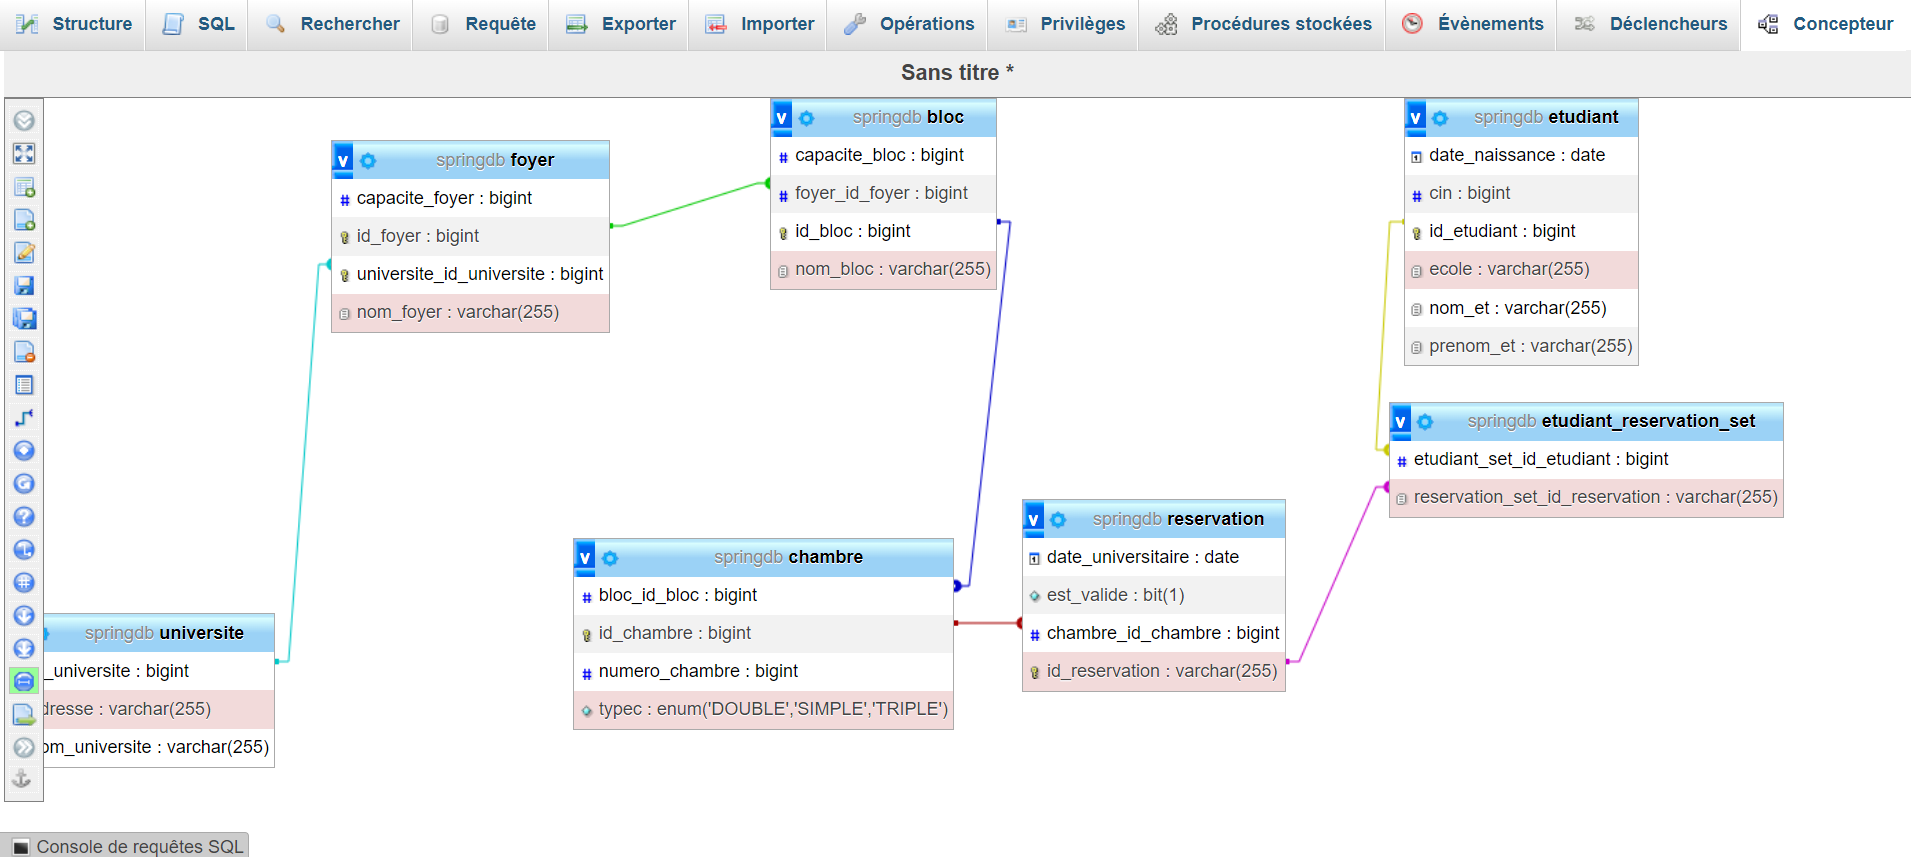
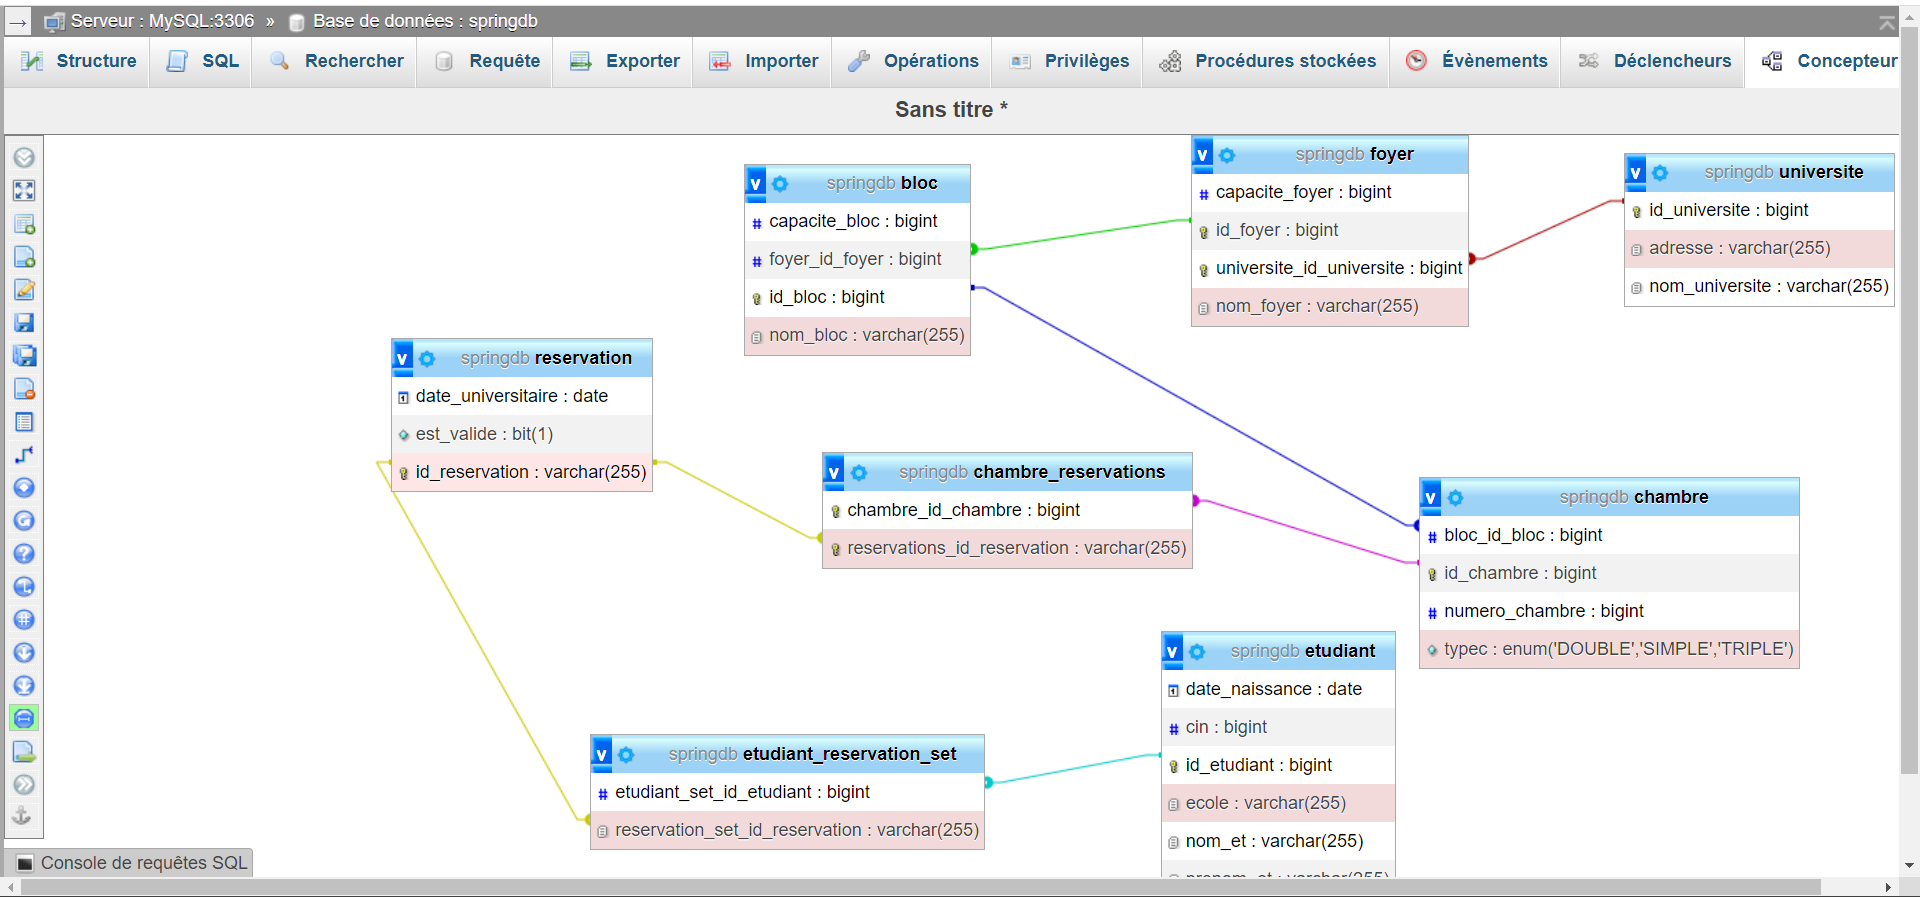
Homework Séance 3 : Spring Data JPA Associations

diff --git a/src/main/java/tn/esprit/asi/sprintproject/entities/Reservation.java b/src/main/java/tn/esprit/asi/sprintproject/entities/Reservation.java
@@ -14,8 +14,7 @@ public class Reservation implements Serializable {
     @Temporal(TemporalType.DATE)//definir le format de date
     private Date dateUniversitaire ;
 
-    @ManyToOne
-    private Chambre chambre;
+
 
     @ManyToMany(mappedBy = "reservationSet", cascade = CascadeType. ALL )
     private List<Etudiant> etudiantSet ;

diff --git a/src/main/java/tn/esprit/asi/sprintproject/entities/Chambre.java b/src/main/java/tn/esprit/asi/sprintproject/entities/Chambre.java
@@ -17,7 +17,7 @@ public class Chambre implements Serializable {
     @ManyToOne
     private Bloc bloc;
 
-  @OneToMany(cascade=CascadeType.ALL, mappedBy= "chambre")
+  @OneToMany(cascade=CascadeType.ALL)
   private Set<Reservation> reservations;
 
 
